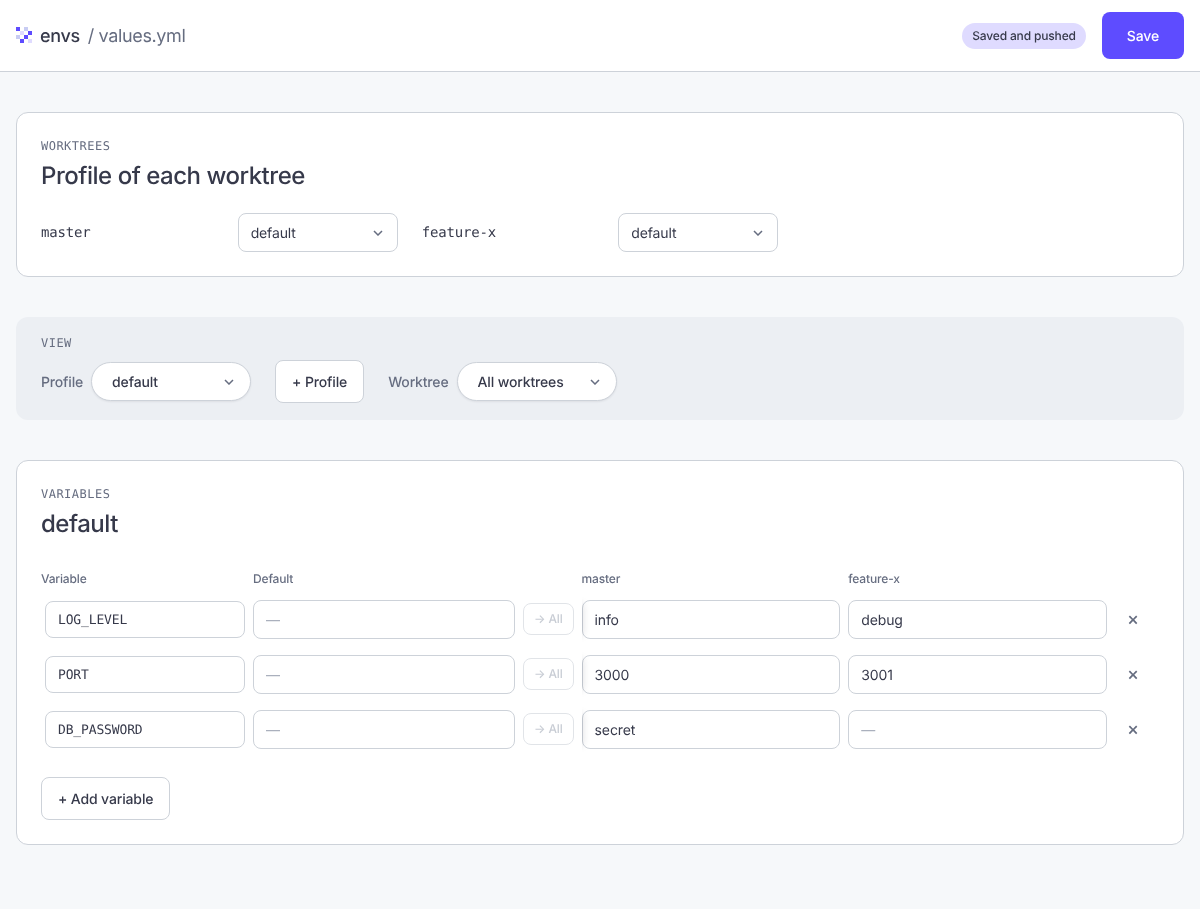
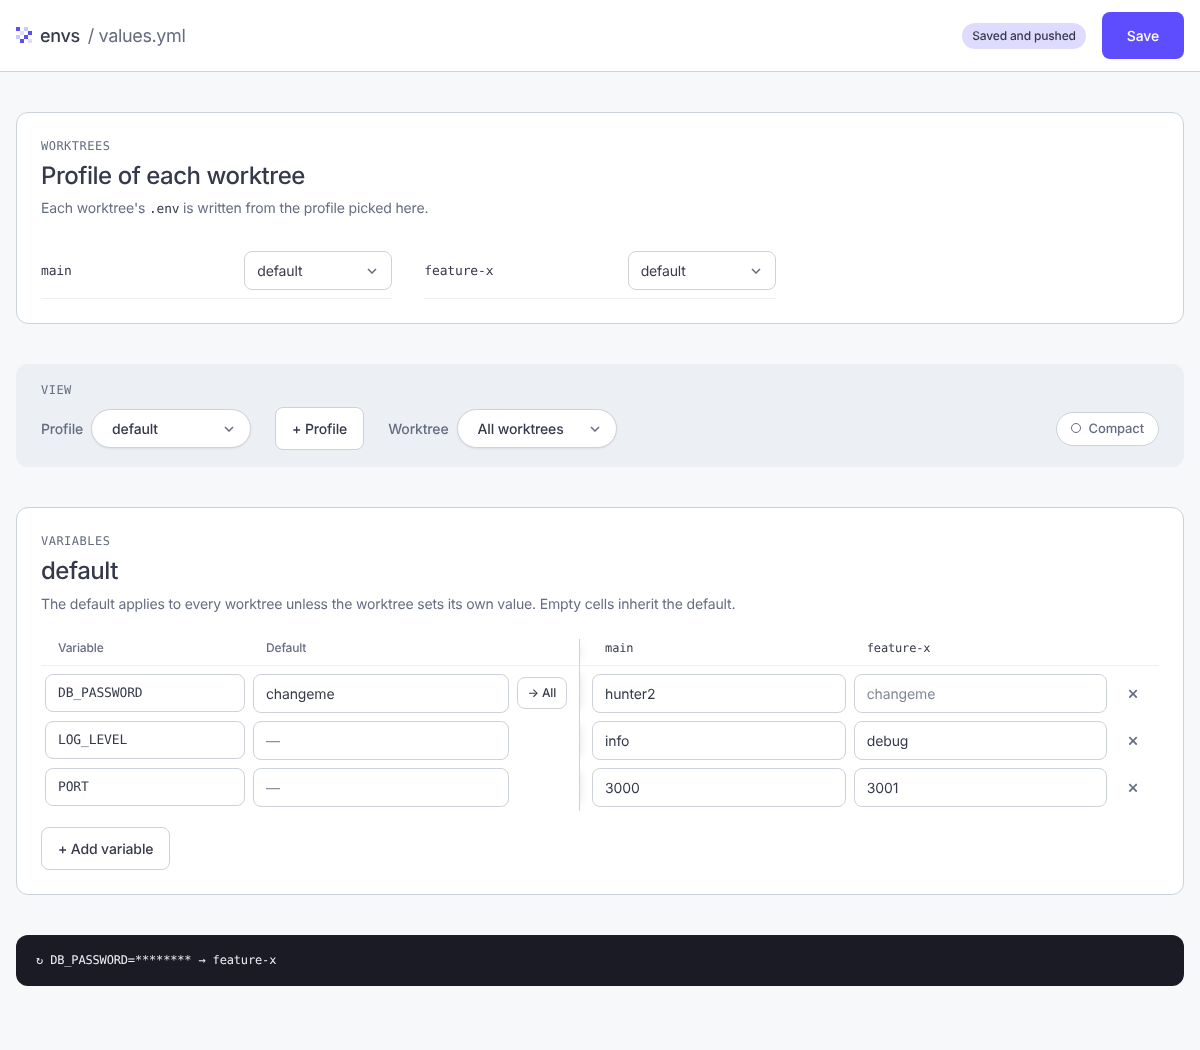
feat(ui): polish web editor states, table grouping and density
- Header shows "Unsaved changes" (frost pill) when the form differs from
  values.yml, a dark "Save failed" badge on error, and "Saved and pushed"
  only while nothing is pending; warn before closing with unsaved
  changes; Ctrl/Cmd+S saves.
- Helper line under each section title; empty state for a profile with
  no variables.
- Variables table: hairline divides Default from worktree columns,
  header labels align with input text, worktree headers in mono, row
  hover tint, empty worktree cells show the inherited default (Steel
  placeholder), "-> All" hidden until a default exists.
- Compact density toggle (lilac pill), on by default above 6 columns.
- Worktree grid rows of equal height with hairline separators; button
  hover/active/disabled states; phone header keeps the badge beside Save.
- Regenerate docs/assets/images/edit-ui.png.

Claude-Session: https://claude.ai/code/session_01VXTyYzwUu6vTwoWdxRkYUz

diff --git a/src/ui/styles.css b/src/ui/styles.css
@@ -129,6 +129,12 @@ h2 {
   color: var(--color-graphite);
   overflow-wrap: anywhere;
 }
+/* A one-line explanation under a section title. */
+h2:has(+ .lede) { margin-bottom: var(--space-2); }
+.lede { margin: 0 0 var(--space-6); max-width: 80ch; font-size: 14px; line-height: 1.57; color: var(--color-slate-body); }
+code { font: 400 0.92em/1 var(--font-mono); color: var(--color-graphite); }
+.sr-only { position: absolute; width: 1px; height: 1px; overflow: hidden; clip-path: inset(50%); white-space: nowrap; }
+.loading { color: var(--color-slate-body); font-size: 14px; }
 
 /* Buttons: ghost by default, violet only for Save. */
 button {
@@ -141,10 +147,17 @@ button {
   color: var(--color-graphite);
   cursor: pointer;
 }
-button:hover { border-color: var(--color-steel); }
+button:hover:not(:disabled) { border-color: var(--color-steel); background: var(--color-cloud-mist); }
+button:active:not(:disabled) { background: var(--color-frost); }
 button.primary { padding: 12px 24px; border-color: transparent; background: var(--color-volt-violet); color: var(--color-canvas); }
-button.primary:hover:not(:disabled) { background: var(--color-midnight-ink); }
-button:disabled { opacity: 0.6; cursor: progress; }
+button.primary:hover:not(:disabled), button.primary:active:not(:disabled) { border-color: transparent; background: var(--color-midnight-ink); }
+button:disabled { opacity: 0.6; cursor: not-allowed; }
+button.primary:disabled { cursor: progress; }
+/* Toggle pill (Compact): lilac when on. */
+button.toggle { padding: 6px 14px; border-radius: var(--radius-pills); font-size: 13px; color: var(--color-slate-body); }
+button.toggle::before { content: ""; display: inline-block; width: 8px; height: 8px; margin-right: var(--space-2); border: 1.5px solid currentColor; border-radius: 50%; vertical-align: 0; }
+button.toggle[aria-pressed="true"] { background: var(--color-lilac); border-color: var(--color-lavender); color: var(--color-graphite); }
+button.toggle[aria-pressed="true"]::before { background: currentColor; }
 button.remove {
   width: 36px;
   height: 36px;
@@ -158,23 +171,29 @@ button.remove {
 button.remove:hover { background: var(--color-frost); color: var(--color-graphite); }
 
 /* Tables */
-table { width: 100%; border-collapse: separate; border-spacing: 0 var(--space-2); }
+table { width: 100%; border-collapse: separate; border-spacing: 0; }
 td, th { padding: 0 var(--space-2) 0 0; text-align: left; vertical-align: middle; }
+/* Header labels line up with the text inside the inputs below them (1px border + 12px padding). */
 th {
-  padding-bottom: 0;
+  padding: 0 var(--space-2) var(--space-2) 13px;
   font: 500 12px/1.5 var(--font-body);
   color: var(--color-slate-body);
   white-space: nowrap;
+  border-bottom: 1px solid var(--color-frost);
 }
+th.wt { font: 400 12px/1.4 var(--font-mono); color: var(--color-graphite); }
+.table-scroll th:first-child { padding-left: 17px; }
 td.x { width: 44px; padding: 0; }
 /* Wide tables scroll inside their card instead of the page. */
-.table-scroll { overflow-x: auto; margin: 0 0 var(--space-4); }
+.table-scroll { position: relative; overflow-x: auto; margin: 0 0 var(--space-4); }
 .table-scroll table { margin: 0; }
 .table-scroll td input { min-width: 160px; }
 .table-scroll td:first-child input { min-width: 200px; font-family: var(--font-mono); font-size: 13px; }
-/* The row being edited gets a lilac tint. */
+/* Rows: mist on hover, lilac for the row being edited. */
+.table-scroll tbody tr:hover td { background: var(--color-cloud-mist); }
 .table-scroll tbody tr:focus-within td { background: var(--color-lilac); }
 .table-scroll tbody tr td { padding-block: var(--space-1); }
+.table-scroll tbody tr:first-child td { padding-top: var(--space-2); }
 .table-scroll tbody tr td:first-child { padding-left: var(--space-1); border-radius: var(--radius-buttons) 0 0 var(--radius-buttons); }
 .table-scroll tbody tr td:last-child { border-radius: 0 var(--radius-buttons) var(--radius-buttons) 0; }
 
@@ -189,7 +208,8 @@ input, select {
   background: var(--color-canvas);
   color: var(--color-graphite);
 }
-input::placeholder { color: var(--color-fog-text); opacity: 1; }
+/* Steel rather than Fog: a placeholder here can be the inherited default, which has to stay readable. */
+input::placeholder { color: var(--color-steel); opacity: 1; }
 input:hover, select:hover { border-color: var(--color-steel); }
 select {
   appearance: none;
@@ -200,6 +220,7 @@ select {
   cursor: pointer;
 }
 .selectors { display: flex; flex-wrap: wrap; align-items: center; gap: var(--space-3) var(--space-6); }
+.selectors .toggle { margin-left: auto; }
 .selectors label { display: flex; align-items: center; gap: var(--space-2); font: 500 14px/1.5 var(--font-body); color: var(--color-slate-body); }
 .selectors select { border-radius: var(--radius-pills); padding: 8px 40px 8px 20px; font-weight: 500; background-position: right 16px center; box-shadow: var(--shadow-small); }
 
@@ -208,10 +229,15 @@ input:focus-visible, select:focus-visible { outline: none; border-color: var(--c
 button:focus-visible { outline: var(--focus-outline); outline-offset: 2px; }
 
 /* Save feedback: a lilac badge in the nav, the push log as an onyx terminal. */
-.status { font: 500 12px/1.5 var(--font-body); padding: 4px 10px; border-radius: var(--radius-pills); }
+.status { display: inline-flex; align-items: center; gap: 6px; font: 500 12px/1.5 var(--font-body); padding: 4px 10px; border-radius: var(--radius-pills); }
 .status:empty { display: none; }
 .status.ok { background: var(--color-lilac); color: var(--color-graphite); }
-.status.err { background: var(--color-frost); color: var(--color-graphite); border: 1px solid var(--color-mist-border); }
+/* Unsaved: a quiet frost pill with a graphite dot, so the violet stays on Save alone. */
+.status.dirty { background: var(--color-frost); color: var(--color-graphite); }
+.status.dirty::before { content: ""; width: 6px; height: 6px; border-radius: 50%; background: var(--color-graphite); }
+/* Failure: the strongest neutral available, ink on white. */
+.status.err { background: var(--color-midnight-ink); color: var(--color-canvas); }
+.status.err::before { content: "!"; font-weight: 700; }
 pre {
   margin: 0;
   padding: var(--space-4) var(--space-5);
@@ -227,15 +253,16 @@ pre {
   :root { --section-gap: var(--space-6); --card-padding: var(--space-4); }
   main { padding-top: var(--space-6); }
 }
+/* Phones: drop the file name so the status badge fits next to Save instead of wrapping. */
 @media (max-width: 480px) {
-  .status { order: 3; }
+  .brand .dim { display: none; }
 }
 
 /* Worktree profiles: a grid so many worktrees do not make a tall single column. */
-.wt-grid { list-style: none; margin: 0; padding: 0; display: grid; grid-template-columns: repeat(auto-fill, minmax(320px, 1fr)); gap: var(--space-2) var(--space-6); }
-.wt-grid li { display: flex; align-items: center; justify-content: space-between; gap: var(--space-3); min-width: 0; }
-.wt-grid .name { font: 400 14px/1.5 var(--font-mono); color: var(--color-graphite); overflow-wrap: anywhere; }
-.wt-grid select { flex: none; }
+.wt-grid { list-style: none; margin: 0; padding: 0; display: grid; grid-template-columns: repeat(auto-fill, minmax(340px, 1fr)); column-gap: var(--space-8); }
+.wt-grid li { display: flex; align-items: center; justify-content: space-between; gap: var(--space-3); min-width: 0; min-height: 56px; padding-block: var(--space-2); border-bottom: 1px solid var(--color-frost); }
+.wt-grid .name { font: 400 13px/1.4 var(--font-mono); color: var(--color-graphite); overflow-wrap: anywhere; }
+.wt-grid select { flex: none; min-width: 148px; }
 
 /* Long worktree names wrap in column headers so similar names stay distinguishable. */
 .table-scroll th { white-space: normal; vertical-align: bottom; }
@@ -245,7 +272,11 @@ pre {
 .table-scroll { --col1: 212px; }
 .table-scroll th:nth-child(-n+2), .table-scroll td:nth-child(-n+2) { position: sticky; z-index: 1; background: var(--color-canvas); box-sizing: border-box; }
 .table-scroll th:first-child, .table-scroll td:first-child { left: 0; width: var(--col1); min-width: var(--col1); max-width: var(--col1); }
-.table-scroll th:nth-child(2), .table-scroll td:nth-child(2) { left: var(--col1); box-shadow: 8px 0 8px -8px rgba(39, 40, 53, 0.18); }
+/* Default is the base layer: a hairline divides it from the per-worktree overrides. */
+.table-scroll th:nth-child(2), .table-scroll td:nth-child(2) { left: var(--col1); padding-right: var(--space-3); border-right: 1px solid var(--color-ash-border); box-shadow: 8px 0 8px -8px rgba(39, 40, 53, 0.14); }
+.table-scroll th:nth-child(3), .table-scroll td:nth-child(3) { padding-left: var(--space-3); }
+.table-scroll th:nth-child(3) { padding-left: calc(var(--space-3) + 13px); }
+.table-scroll tbody tr:hover td:nth-child(-n+2) { background: var(--color-cloud-mist); }
 .table-scroll tbody tr:focus-within td:nth-child(-n+2) { background: var(--color-lilac); }
 
 /* On phones only the variable name stays pinned, so worktree columns keep some room. */
@@ -261,4 +292,22 @@ pre {
 .with-action { display: flex; gap: var(--space-2); align-items: center; }
 button.apply-all { flex: none; padding: 6px 10px; font: 500 12px/1.5 var(--font-body); white-space: nowrap; border: 1px solid var(--color-ash-border); border-radius: var(--radius-buttons); background: var(--color-canvas); color: var(--color-graphite); cursor: pointer; }
 button.apply-all:hover:not(:disabled) { border-color: var(--color-steel); }
-button.apply-all:disabled { color: var(--color-fog-text); cursor: default; }
+/* Without a default there is nothing to apply: keep the slot so columns do not jump, hide the button. */
+button.apply-all:disabled { visibility: hidden; }
+
+/* Compact density for many worktrees: shorter rows and narrower columns. */
+.table-scroll.compact td input { min-width: 128px; padding: 5px 10px; font-size: 13px; }
+.table-scroll.compact td:first-child input { min-width: 0; font-size: 12px; }
+.table-scroll.compact tbody tr td { padding-block: 2px; }
+.table-scroll.compact tbody tr:first-child td { padding-top: var(--space-2); }
+.table-scroll.compact button.apply-all { padding: 3px 8px; }
+.table-scroll.compact button.remove { width: 30px; height: 30px; }
+.table-scroll.compact th { padding-left: 11px; }
+.table-scroll.compact th:first-child { padding-left: 15px; }
+.table-scroll.compact th:nth-child(3) { padding-left: calc(var(--space-3) + 11px); }
+.table-scroll.compact .th-clip { max-width: 124px; }
+
+/* Empty variables table. */
+.empty { padding: var(--space-8) var(--space-6); border: 1px dashed var(--color-mist-border); border-radius: var(--radius-cards); background: var(--color-cloud-mist); text-align: center; font-size: 14px; color: var(--color-slate-body); }
+.empty p { margin: 0 0 var(--space-4); }
+.empty .empty-title { margin-bottom: var(--space-1); font: 500 16px/1.4 var(--font-display); letter-spacing: -0.02em; color: var(--color-graphite); }

diff --git a/src/ui/app.tsx b/src/ui/app.tsx
@@ -1,4 +1,4 @@
-import { useEffect, useState } from "react";
+import { useEffect, useRef, useState } from "react";
 import { createRoot } from "react-dom/client";
 
 type Value = string | number | boolean;
@@ -42,23 +42,47 @@ const fromVarRows = (rows: VarRow[]): Profile => {
   return profile;
 };
 
+/** JSON with sorted keys, so two states compare equal regardless of key order. */
+const stable = (v: unknown): string =>
+  typeof v !== "object" || v === null
+    ? JSON.stringify(v)
+    : Array.isArray(v)
+      ? `[${v.map(stable).join(",")}]`
+      : `{${Object.keys(v).sort().map((k) => `${JSON.stringify(k)}:${stable((v as Record<string, unknown>)[k])}`).join(",")}}`;
+/** What Save would write, normalized: used to tell whether there are unsaved changes. */
+const snapshot = (uses: Record<string, string>, vars: Record<string, VarRow[]>, worktrees: string[]) =>
+  stable({
+    uses: { ...uses, ...Object.fromEntries(worktrees.map((w) => [w, uses[w] ?? "default"])) },
+    profiles: Object.fromEntries(Object.entries(vars).map(([n, rows]) => [n, fromVarRows(rows)])),
+  });
+
 /** Variables × columns: the default value, then the selected worktree (or every worktree). */
-function VarsEditor(props: { rows: VarRow[]; onChange(rows: VarRow[]): void; columns: string[]; worktrees: string[] }) {
-  const { rows, onChange, columns, worktrees } = props;
+function VarsEditor(props: { rows: VarRow[]; onChange(rows: VarRow[]): void; columns: string[]; worktrees: string[]; compact: boolean }) {
+  const { rows, onChange, columns, worktrees, compact } = props;
   const set = (i: number, patch: (row: VarRow) => VarRow) =>
     onChange(rows.map((row, j) => (j === i ? patch(row) : row)));
+  const add = () => onChange([...rows, { key: "", def: "", byWorktree: {} }]);
+  if (rows.length === 0) {
+    return (
+      <div className="empty">
+        <p className="empty-title">No variables in this profile yet</p>
+        <p>Add one here, or run <code>envs pull</code> to collect them from each worktree's <code>.env</code>.</p>
+        <button className="ghost" onClick={add}>+ Add variable</button>
+      </div>
+    );
+  }
   return (
     <>
-      <div className="table-scroll">
+      <div className={`table-scroll${compact ? " compact" : ""}`}>
         <table>
           <thead>
             <tr>
-              <th>Variable</th>
-              <th>Default</th>
+              <th scope="col">Variable</th>
+              <th scope="col">Default</th>
               {columns.map((w) => (
-                <th key={w}><span className="th-clip" title={w}>{w}</span></th>
+                <th scope="col" key={w} className="wt"><span className="th-clip" title={w}>{w}</span></th>
               ))}
-              <th />
+              <th><span className="sr-only">Remove</span></th>
             </tr>
           </thead>
           <tbody>
@@ -70,7 +94,7 @@ function VarsEditor(props: { rows: VarRow[]; onChange(rows: VarRow[]): void; col
                     <input aria-label={`${row.key || "Variable"} default`} value={row.def} placeholder="—" onChange={(e) => set(i, (r) => ({ ...r, def: e.target.value }))} />
                     <button
                       className="apply-all"
-                      title="Apply this value to every worktree"
+                      title={row.def === "" ? "Set a default first" : "Apply this value to every worktree"}
                       aria-label={`Apply ${row.key || "variable"} default to all worktrees`}
                       disabled={row.def === ""}
                       onClick={() => set(i, (r) => ({ ...r, byWorktree: { ...r.byWorktree, ...Object.fromEntries(worktrees.map((w) => [w, r.def])) } }))}
@@ -84,7 +108,8 @@ function VarsEditor(props: { rows: VarRow[]; onChange(rows: VarRow[]): void; col
                     <input
                       aria-label={`${row.key || "Variable"} in ${w}`}
                       value={row.byWorktree[w] ?? ""}
-                      placeholder={row.def === "" ? "—" : "default"}
+                      placeholder={row.def === "" ? "—" : row.def}
+                      title={row.byWorktree[w] ? undefined : row.def === "" ? "Not set" : "Inherits the default"}
                       onChange={(e) => set(i, (r) => ({ ...r, byWorktree: { ...r.byWorktree, [w]: e.target.value } }))}
                     />
                   </td>
@@ -95,7 +120,7 @@ function VarsEditor(props: { rows: VarRow[]; onChange(rows: VarRow[]): void; col
           </tbody>
         </table>
       </div>
-      <button className="ghost" onClick={() => onChange([...rows, { key: "", def: "", byWorktree: {} }])}>+ Add variable</button>
+      <button className="ghost" onClick={add}>+ Add variable</button>
     </>
   );
 }
@@ -108,17 +133,41 @@ function App() {
   const [worktree, setWorktree] = useState("");
   const [saving, setSaving] = useState(false);
   const [result, setResult] = useState<SaveResult | { ok: false; errors: string[]; logs: string[]; created: string[] }>();
+  const [baseline, setBaseline] = useState("");
+  const [compactChoice, setCompactChoice] = useState<boolean>();
 
   const load = (state: State) => {
+    const rows = Object.fromEntries(Object.entries(state.profiles).map(([n, p]) => [n, toVarRows(p)]));
     setLoaded(state);
     setUses(state.uses);
-    setVars(Object.fromEntries(Object.entries(state.profiles).map(([n, p]) => [n, toVarRows(p)])));
+    setVars(rows);
+    setBaseline(snapshot(state.uses, rows, state.worktrees));
   };
   useEffect(() => {
     fetch("/api/values").then((r) => r.json() as Promise<State>).then(load);
   }, []);
 
-  if (!loaded) return <main>Loading…</main>;
+  const dirty = loaded !== undefined && snapshot(uses, vars, loaded.worktrees) !== baseline;
+  // Warn before closing the tab with unsaved changes; Ctrl/Cmd+S saves.
+  const saveRef = useRef<() => void>(() => {});
+  useEffect(() => {
+    if (!dirty) return;
+    const warn = (e: BeforeUnloadEvent) => e.preventDefault();
+    addEventListener("beforeunload", warn);
+    return () => removeEventListener("beforeunload", warn);
+  }, [dirty]);
+  useEffect(() => {
+    const onKey = (e: KeyboardEvent) => {
+      if ((e.metaKey || e.ctrlKey) && e.key.toLowerCase() === "s") {
+        e.preventDefault();
+        saveRef.current();
+      }
+    };
+    addEventListener("keydown", onKey);
+    return () => removeEventListener("keydown", onKey);
+  }, []);
+
+  if (!loaded) return <main className="loading" aria-busy="true">Loading…</main>;
 
   const profileNames = Object.keys(vars);
   const addProfile = () => {
@@ -129,6 +178,7 @@ function App() {
   };
 
   const save = async () => {
+    if (saving) return;
     setSaving(true);
     try {
       const profiles = Object.fromEntries(
@@ -149,14 +199,28 @@ function App() {
     }
   };
 
+  saveRef.current = save;
+
+  const columns = worktree ? [worktree] : loaded.worktrees;
+  const compact = compactChoice ?? columns.length > 6;
+  const status = saving
+    ? undefined
+    : result && !result.ok
+      ? { kind: "err", text: "Save failed" }
+      : dirty
+        ? { kind: "dirty", text: "Unsaved changes" }
+        : result?.ok
+          ? { kind: "ok", text: "Saved and pushed" }
+          : undefined;
+
   return (
     <>
       <header>
         <span className="brand"><span className="mosaic" aria-hidden="true" />envs<span className="dim"> / values.yml</span></span>
-        <span role="status" className={`status ${result?.ok ? "ok" : "err"}`}>
-          {result && (result.ok ? "Saved and pushed" : "Save failed")}
+        <span role="status" className={`status ${status?.kind ?? ""}`}>
+          {status?.text}
         </span>
-        <button className="primary" onClick={save} disabled={saving}>
+        <button className="primary" onClick={save} disabled={saving} aria-keyshortcuts="Control+S Meta+S" title="Save and push (Ctrl+S)">
           {saving ? "Saving…" : "Save"}
         </button>
       </header>
@@ -164,6 +228,7 @@ function App() {
         <section className="card">
           <p className="eyebrow">Worktrees</p>
           <h2>Profile of each worktree</h2>
+          <p className="lede">Each worktree's <code>.env</code> is written from the profile picked here.</p>
           <ul className="wt-grid">
             {loaded.worktrees.map((w) => (
               <li key={w}>
@@ -178,7 +243,7 @@ function App() {
           </ul>
         </section>
 
-        <section className="card inset">
+        <section className="card inset" aria-label="View">
           <p className="eyebrow">View</p>
           <div className="selectors">
             <label>
@@ -199,22 +264,27 @@ function App() {
                 ))}
               </select>
             </label>
+            <button className="toggle" aria-pressed={compact} onClick={() => setCompactChoice(!compact)}>
+              Compact
+            </button>
           </div>
         </section>
 
         <section className="card">
           <p className="eyebrow">Variables</p>
           <h2>{profile}{worktree && ` · ${worktree}`}</h2>
+          <p className="lede">The default applies to every worktree unless the worktree sets its own value. Empty cells inherit the default.</p>
           <VarsEditor
             rows={vars[profile] ?? []}
             onChange={(rows) => setVars({ ...vars, [profile]: rows })}
-            columns={worktree ? [worktree] : loaded.worktrees}
+            columns={columns}
             worktrees={loaded.worktrees}
+            compact={compact}
           />
         </section>
 
         {result && (result.logs.length > 0 || result.errors.length > 0 || result.created.length > 0) && (
-          <pre>
+          <pre aria-label="Save log">
             {[
               ...result.created.map((c) => `+ created ${c} from default`),
               ...result.logs,
